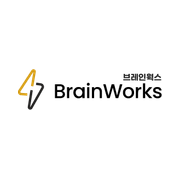
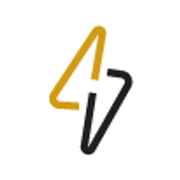
feat: 탭 아이콘을 로고 심벌로 교체

Changed region(s): [[0.25, 0.1389, 0.9167, 0.8611], [0.0833, 0.3611, 0.25, 0.6111]]

diff --git a/src/pages/_document.tsx b/src/pages/_document.tsx
@@ -22,8 +22,14 @@ export default class BrainworksDocument extends Document {
     return (
       <Html lang={locale} data-design="industrial">
         <Head>
-          <link rel="icon" href="/favicon.ico" sizes="32x32" />
-          <link rel="icon" href="/favicon-32.png" type="image/png" sizes="32x32" />
+          {/* 탭 아이콘은 로고의 심벌만 쓴다. 워드마크까지 넣으면 32px에서
+              글자가 뭉개져 무엇인지 읽히지 않는다. */}
+          <link
+            rel="icon"
+            href="/favicon-32.png"
+            type="image/png"
+            sizes="32x32"
+          />
           <link rel="apple-touch-icon" href="/apple-touch-icon.png" />
           {/* 드러남 숨김 상태를 첫 페인트 전에 켠다. 훅(_app useReveal)이 붙이면 한 프레임 보였다가 사라진다. */}
           <script
